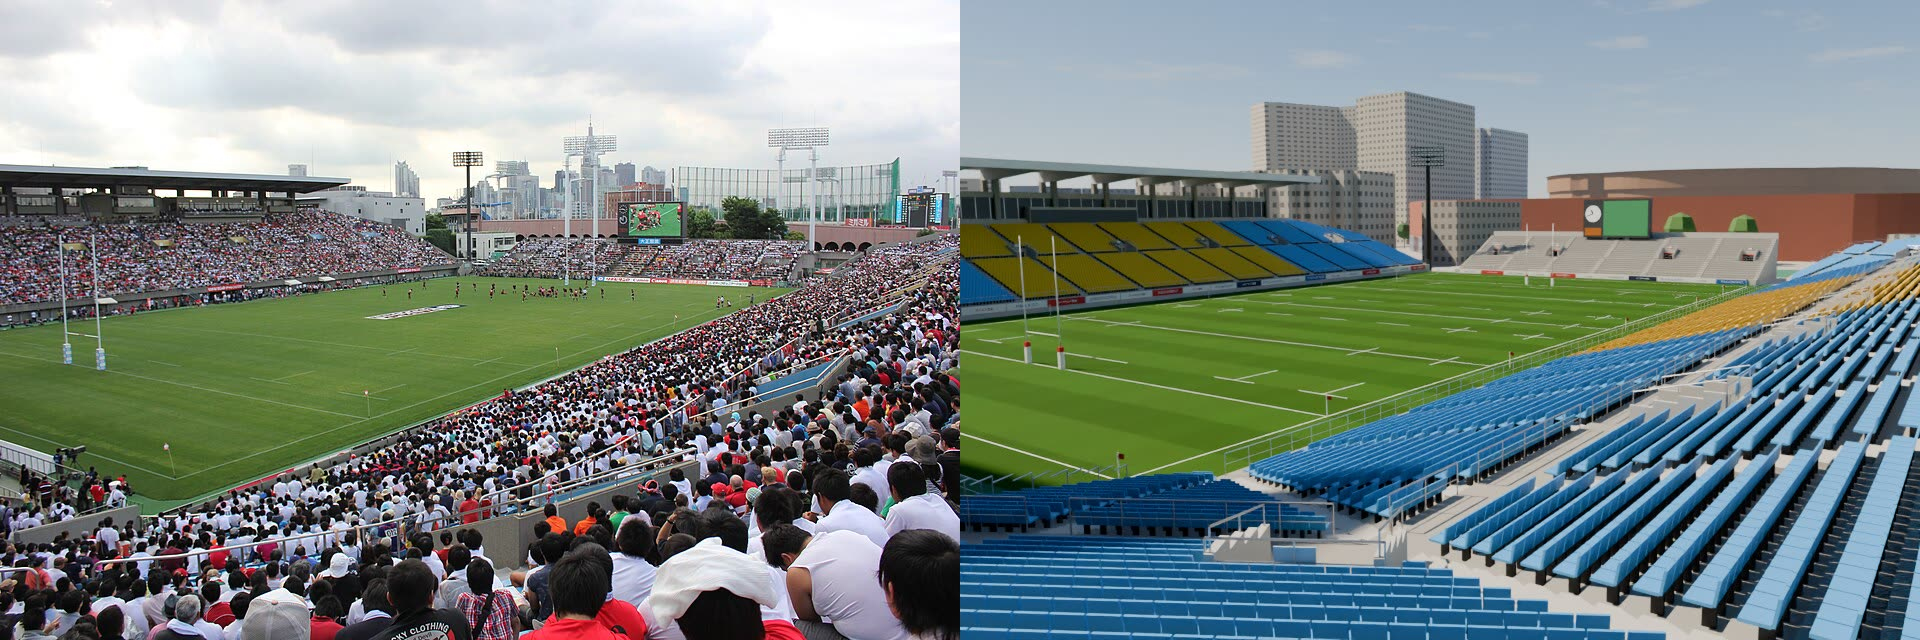
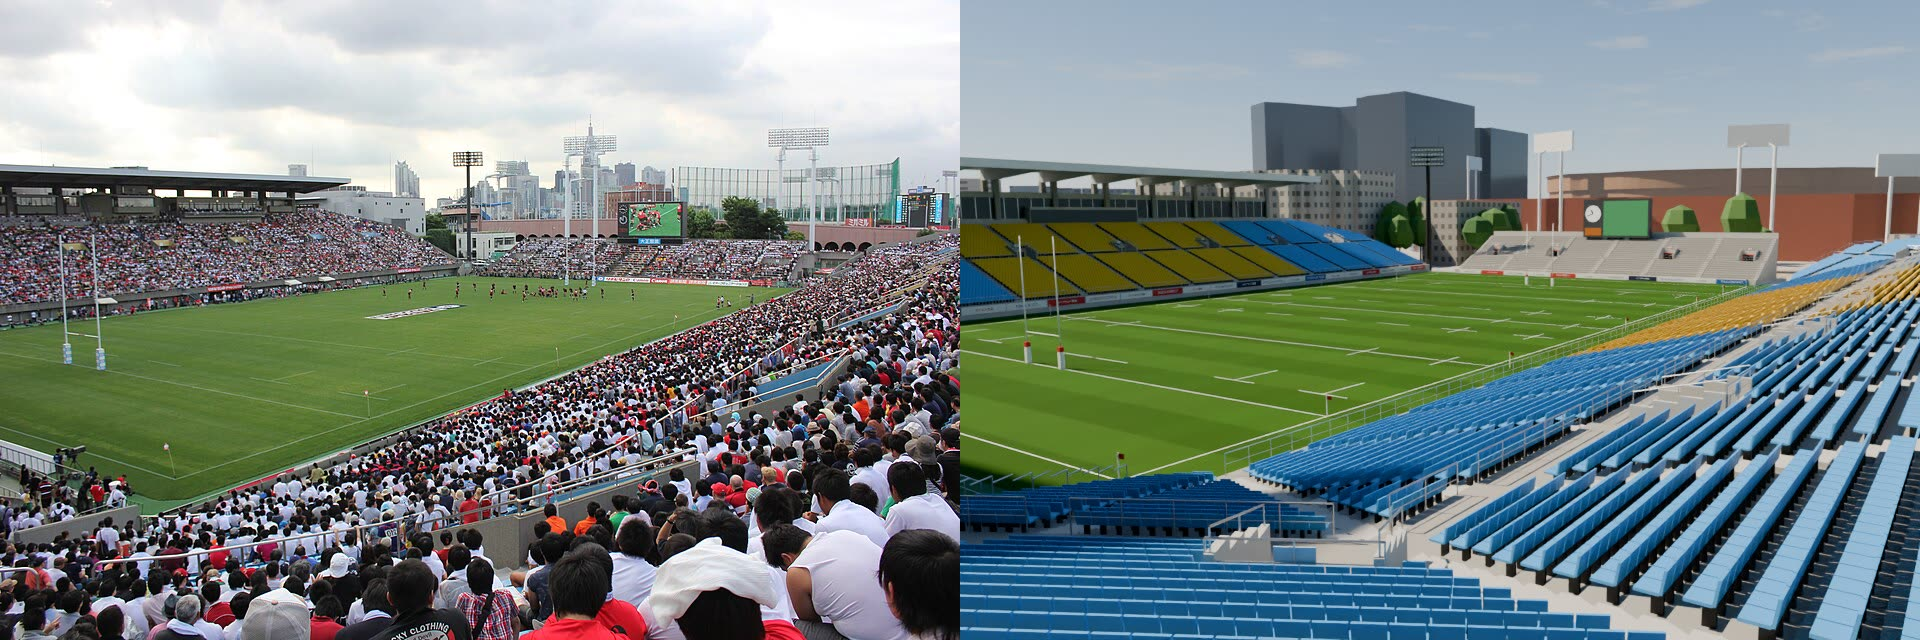
神宮球場の照明塔 4 基を写真 2 枚の向きの交点に作った

diff --git a/scripts/cb/exterior.py b/scripts/cb/exterior.py
@@ -41,6 +41,7 @@ def build():
     if S.get("jingu"):
         _jingu(S["jingu"], c)
     _main_gate(c)
+    _jingu_towers(c)
     for st in S.get("stadiums", []):
         if S.get("jingu") and _near(st["outer"], S["jingu"]["outer"]):
             continue                      # 神宮球場は _jingu で作る
@@ -71,6 +72,29 @@ def _main_gate(c):
     p_txt = Vector((x0, y0 + G["depth"] / 2 + 0.02, h + G["beam"] / 2))
     text_obj("gate_name", "国 立 競 技 場 秩 父 宮 ラ グ ビ ー 場", G["beam"] * 0.55, M.get("gate_letters"), c, p_txt,
              (0, 1, 0), jp=True, max_width=G["span"] * 0.95)
+
+
+# 神宮球場の照明塔(白い 2 本柱、大きな灯具)。比較 04 と 01 の解いたカメラからの向きの交点 [X, Y, 灯具の中心の高さ]。
+# 2 枚の写真の灯具の高さはほぼ一致(4 基目は写真の端で ±3 m)。神宮球場の中心から 112〜118 m の輪の上。残りの塔は写真にない
+JINGU_TOWERS = [(236.0, 131.0, 38.0), (143.0, 44.0, 36.5), (145.0, -18.0, 35.0), (163.0, -53.0, 26.5)]
+JINGU_CENTER = (253.0, 14.0)
+
+
+def _jingu_towers(c):
+    """神宮球場の照明塔。灯具は幅 16 m・高さ 6 m(写真 04 の見かけの幅から)、球場の中心へ向ける。夜は光る。"""
+    from mathutils import Matrix, Vector
+    from .lights import _lens
+    white, lens = M.get("white_paint"), _lens()
+    for i, (x, y, zc) in enumerate(JINGU_TOWERS):
+        a = math.atan2(JINGU_CENTER[1] - y, JINGU_CENTER[0] - x)
+        xf = Matrix.Translation((x, y, 0)) @ Matrix.Rotation(a - math.pi / 2, 4, "Z")   # 局所 +Y が球場の中心へ
+        mb = MB(xf)
+        for px in (-4.5, 4.5):
+            mb.cyl((px, 0, 0), (px, 0, zc - 3.0), 0.55, white, n=10)
+            mb.cyl((px, 0, zc - 3.5), (px * 0.6, 1.2, zc - 2.0), 0.3, white, n=8)
+        mb.box(-8.0, 8.0, 0.8, 1.6, zc - 3.0, zc + 3.0, white)            # 灯具の枠
+        mb.box(-7.6, 7.6, 1.6, 1.7, zc - 2.7, zc + 2.7, lens)             # 灯具の面(球場の側)
+        mb.build("jingu_tower_%d" % i, c)
 
 
 def _near(a, b, tol=40.0):

diff --git a/PROGRESS.md b/PROGRESS.md
@@ -44,6 +44,7 @@
 | 00:43 | 高さ 60 m 以上の塔を暗い青緑のガラスの外壁にした(写真 05 の青山OM-SQUARE、写真 02 の左の塔。前は白っぽい格子) | 良くなった。比較 05 の右の塔が写真の黒とガラスの塔に近い。空からの角度も落ち着いた |
 | 00:46 | 周りの建物の推定: OSM に sport のタグがある建物や駐車場は、床面積が大きくても 9〜13 m にした(バックスタンドの後ろの屋内テニス場 2 棟が 25 m → 10 m) | 良くなった。比較 03 でスタンドの後ろの白い大きな建物が消え、写真の木の帯とかまぼこ屋根に近い |
 | 00:52 | 木: 空中写真の濃い緑のます目に 124 本を足した(`tools/aerial_trees.py`、OSM に林のないバックスタンドの裏など)。林・並木は 13〜21 m、街路樹は 7〜12 m と種類で高さを変えた(前は一律 7〜14 m) | 良くなった。比較 03 でスタンドの後ろに写真と同じ木の帯が出た |
+| 00:58 | 神宮球場の照明塔 4 基: 比較 04 と 01 の解いたカメラからの向きの交点(全組み合わせのうち、球場の中心から 112〜118 m で 2 枚の灯具の高さが合う組)。白い 2 本柱と幅 16 m の灯具 | 良くなった。比較 01・04 の重ね絵で写真の塔と重なる |
 
 自分で決めたこと:
 - 角のブロックの向きは 60 度、折れ目は |X| = 64.8(推定)。62.8 だと比較 02 の撮影位置で段が高すぎたので外へ 2 m ずらした。

diff --git a/docs/skill-feedback.md b/docs/skill-feedback.md
@@ -138,6 +138,11 @@
 大きな競技場・駅・商業施設ほど relation で書かれていることが多い。OSM から周りを作る道具をスキルに入れるなら、relation の輪をつなぐ処理と、
 「内周のある建物(競技場)」を別に作る仕組みを最初から入れておくとよい。変換の最後に「relation の数、読んだ数」を出すと漏れに気づける。
 
+### 21. カメラを解いた写真が 2 枚あれば、背景の物の位置は交点で測れる
+照明塔(秩父宮の 4 基、神宮球場の 4 基)は、カメラを解いた写真 2 枚から向きの線を引き、交点で位置を出した。
+どの塔とどの塔が同じかわからないときは、全部の組み合わせの交点を出し、「2 枚の写真から出した高さが合う」組だけ残すと 1 対 1 に決まった。
+`measuring.md` の「高さの測り方」に、この「2 枚の写真の向きの交点」を足すとよい。1 枚しかないときは、向きの線の上で対称な位置を選ぶなど推定と書く。
+
 ## わかりにくかった所
 
 - **ひな形の名前の直し方**: `run.sh`・`render.py`・`compare.py`・`orbit.py` に `hanazono.blend`、`hz` のモジュール名、出力の動画名 `hanazono_orbit` が直書き。

diff --git a/docs/remaining.md b/docs/remaining.md
@@ -20,7 +20,7 @@
 8. **段数**: 東は写真で数えた(18+16 段)。西・北・南は奥行に合わせた推定。並べた座席は 21,670 席+北の立見で約 23,900 人(公式 24,871 人、4% 少ない)。
 9. **バックスタンドの両端の回り込み**は向き(60 度)と折れ目の位置が推定。実物は座席図のとおり何枚かのブロックが少しずつ違う向きで、模型は 1 枚。
     比較 02 のカメラ位置では、模型の段が写真より座席に近い(角の段が 0.5 m ほど高い)。
-10. **神宮球場と国立競技場**は大きな形だけ(神宮: 斜めの客席とれんがの外壁、照明塔・スコアボードなし。国立: 客席・木の軒・屋根の輪、形は推定)。
+10. **神宮球場と国立競技場**は大きな形だけ(神宮: 斜めの客席とれんがの外壁、写真 2 枚で位置を測った照明塔 4 基。残りの照明塔・スコアボード・ネットはなし。国立: 客席・木の軒・屋根の輪、形は推定)。
 11. 空中写真の高い物の倒れは補正していない(屋根の平面 ±3 m)。
 
 ## まだ作っていないもの
